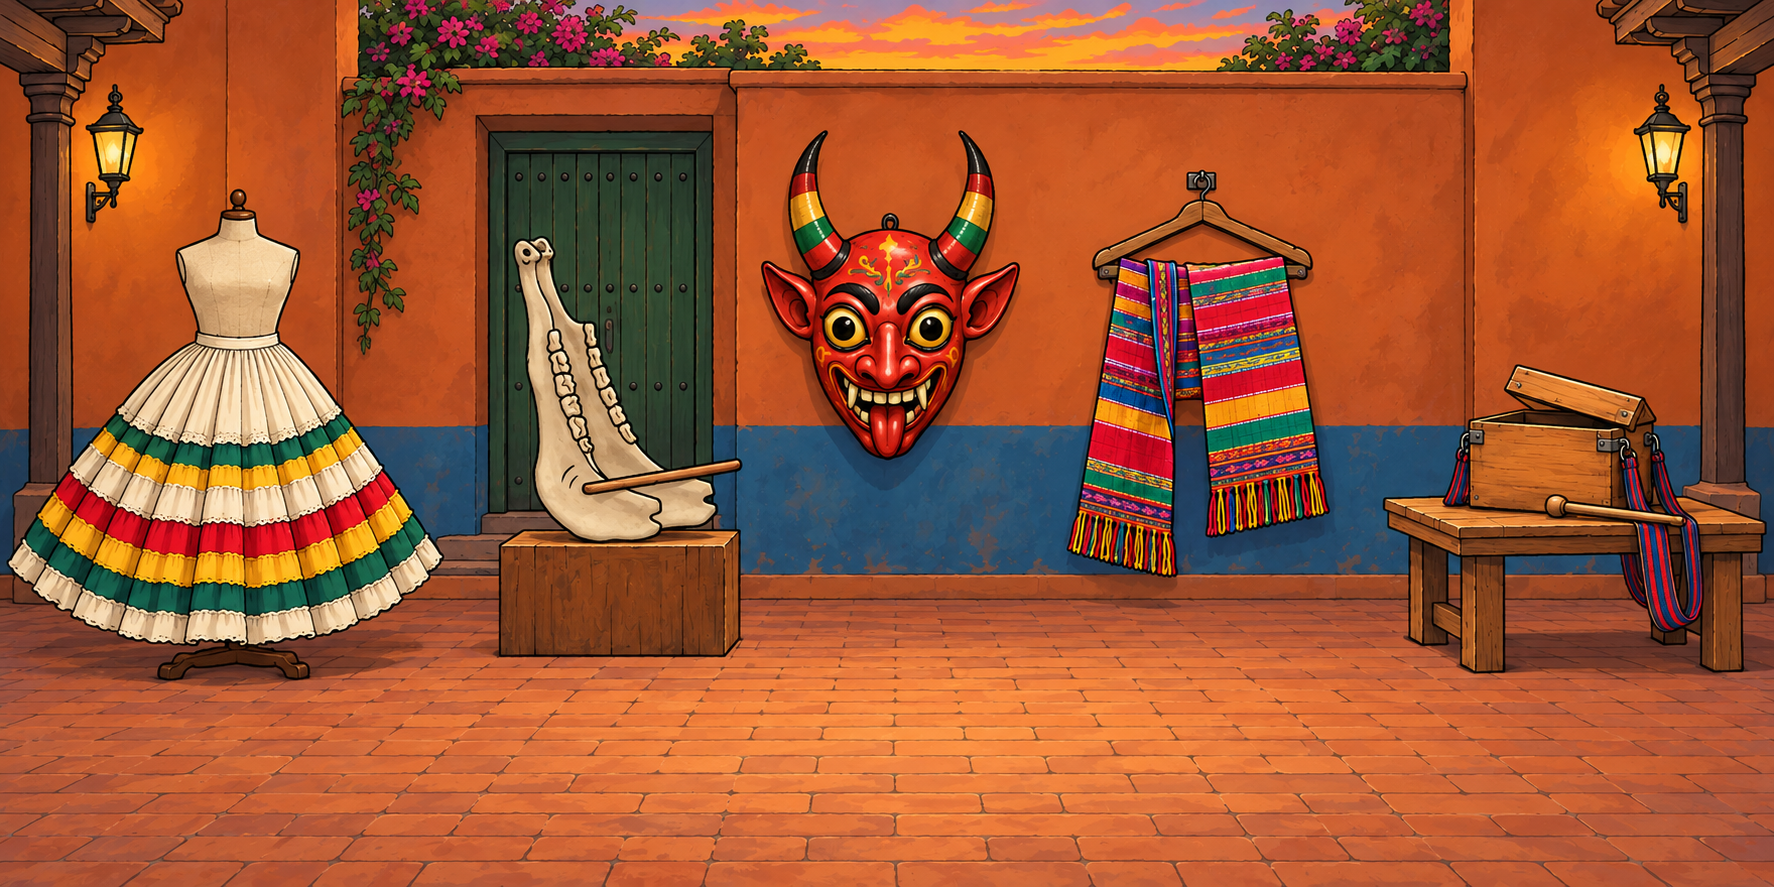
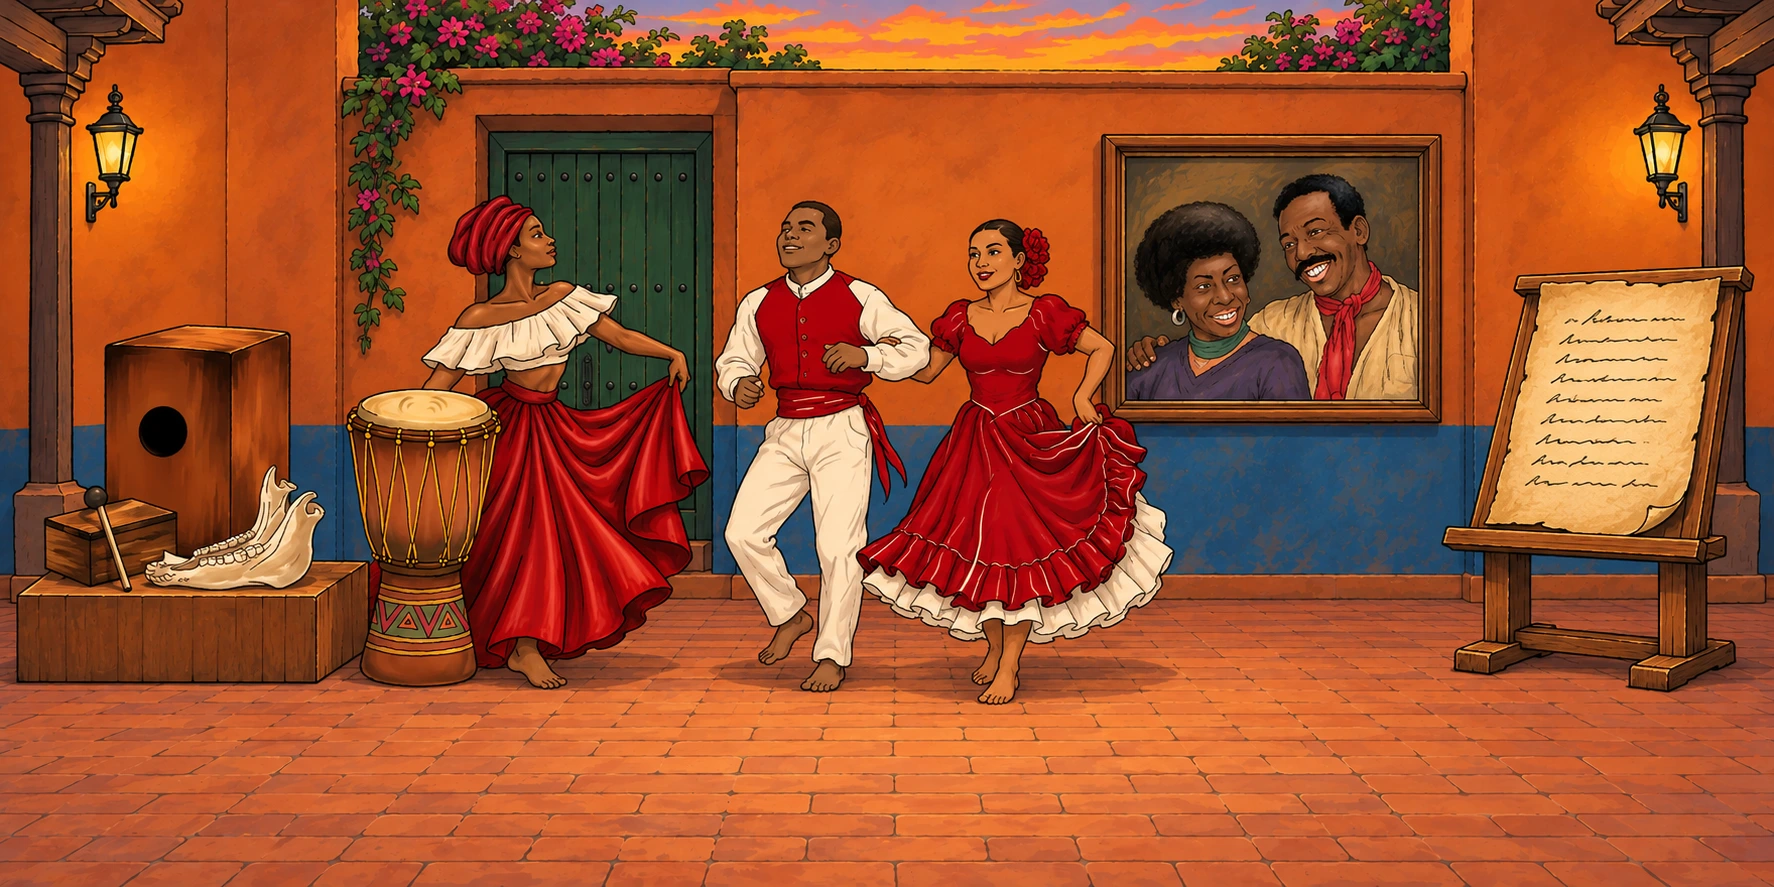
Museo: salas del tondero y el festejo con las piezas finales del equipo, pintadas por Codex
Las artes finales del Drive (31 de octubre) definen las cinco piezas de cada sala: checo, Plaza
de Morropón, pareja de tondero, sombrero-chicha-pañuelo y Teresa Olaya; cajón-cajita-quijada,
orígenes del festejo, pareja de festejo, Nicomedes y Victoria Santa Cruz y una décima manuscrita.
Codex repinta ambas salas completas en el estilo aprobado y las fichas se escriben nuevas
(textos por validar con el equipo).

diff --git a/src/data/museo.ts b/src/data/museo.ts
@@ -116,46 +116,47 @@ export const generos: Genero[] = [
       'Baile alegre del norte del Perú, sobre todo de Piura y Lambayeque. Recrea el cortejo de las aves: la pareja se busca, se esquiva y se enamora al ritmo de guitarras, cajón y checo.',
     interpretes: [],
     completa: true,
+    // Piezas pensadas con el equipo de diseño (Drive, SALA 5, 31 de octubre); la sala la pinta Codex
     objetos: [
-      {
-        id: 'sombrero',
-        categoria: 'Vestimenta',
-        nombre: 'Sombrero de paja',
-        texto:
-          'En Piura el sombrero de paja se teje a mano, con paciencia y paja muy fina. Protege del sol del norte y completa el traje del bailarín de tondero.',
-        dato: 'El tondero se baila en tres partes: la glosa, el dulce y la fuga.',
-      },
       {
         id: 'checo',
         categoria: 'Instrumento',
         nombre: 'Checo',
         texto:
-          'Es una calabaza seca y hueca, abierta por un lado, que se golpea con las manos. Su sonido grave y redondo marca el ritmo de la música norteña.',
-        dato: 'El checo nace del campo: se hace con un mate o calabaza, un fruto que se cultiva en la costa norte.',
+          'Es una calabaza grande, seca y hueca, abierta por un lado, que se golpea con las manos. Su sonido grave y redondo marca el ritmo del tondero y de la música de la costa norte.',
+        dato: 'El checo nace del campo: se hace con un mate o calabaza, un fruto que se cultiva en los valles de Piura y Lambayeque.',
       },
       {
-        id: 'panuelo-color',
-        categoria: 'Accesorio de baile',
-        nombre: 'Pañuelo de color',
-        texto:
-          'Como en la marinera, el pañuelo guía el cortejo. En el tondero suele ser de colores vivos y acompaña giros, persecuciones y coqueteos.',
-        dato: 'Muchos pasos del tondero imitan el vuelo y el cortejo de las aves.',
-      },
-      {
-        id: 'canasta',
-        categoria: 'Vida cotidiana',
-        nombre: 'Canasta de cosecha',
-        texto:
-          'La canasta recuerda la vida del campo piurano: la cosecha, los mercados y las fiestas del pueblo, donde el tondero no podía faltar.',
-        dato: 'El algarrobo, árbol del bosque seco, es un símbolo de Piura y de la costa norte.',
-      },
-      {
-        id: 'mapa',
+        id: 'morropon',
         categoria: 'Símbolo visual',
-        nombre: 'Mapa de Piura',
+        nombre: 'Plaza de Morropón',
         texto:
-          'Piura es la cuna del tondero. Desde sus valles y pueblos, el baile se extendió por toda la costa norte del Perú.',
-        dato: 'El tondero es fruto de la mezcla de herencias españolas, africanas e indígenas en la costa norte.',
+          'Morropón, en Piura, es considerado la cuna del tondero. En su plaza, con su pileta y su iglesia, se celebran las fiestas donde el baile se vive de verdad: entre chicha, guitarras y cajón.',
+        dato: 'Morropón se llama a sí mismo "capital del tondero" y cada año celebra un festival dedicado a este baile.',
+      },
+      {
+        id: 'pareja-tondero',
+        categoria: 'Accesorio de baile',
+        nombre: 'Pareja de tondero',
+        texto:
+          'Se baila descalzo, con pañuelo en alto y sombrero de paja en la mano. Ella luce vestido de volantes y flor en el cabello; él, camisa blanca y faja. La pareja se busca, se esquiva y se enamora, como las aves en el cortejo.',
+        dato: 'El tondero se baila en tres partes: la glosa, el dulce y la fuga.',
+      },
+      {
+        id: 'simbolos-tondero',
+        categoria: 'Vida cotidiana',
+        nombre: 'Sombrero, chicha y pañuelo',
+        texto:
+          'Sombrero de paja de ala ancha, chicha de jora en cántaros de barro y pañuelo bordado: así se arma una fiesta norteña. La chicha, bebida de maíz fermentado, acompaña al tondero desde siempre.',
+        dato: 'En Piura los sombreros de paja se tejen a mano, con fibra muy fina, y protegen del sol fuerte del norte.',
+      },
+      {
+        id: 'teresa-olaya',
+        categoria: 'Personaje',
+        nombre: 'Teresa Olaya',
+        texto:
+          'Teresa Isabel Olaya Díaz es una de las cultoras del tondero de Morropón: bailarina y maestra que ha enseñado a varias generaciones a bailarlo como se baila en su tierra, con pañuelo, vestido de volantes y los pies descalzos.',
+        dato: 'Los cultores y cultoras son quienes guardan y enseñan un baile tradicional en su propio pueblo; de ellos aprenden las nuevas generaciones.',
       },
     ],
   },
@@ -277,46 +278,47 @@ export const generos: Genero[] = [
       'Ritmo afroperuano lleno de energía, con cajón, quijada y palmas. Es celebración, memoria y resistencia, y se baila con alegría y movimiento de cadera.',
     interpretes: ['Nicomedes Santa Cruz', 'Victoria Santa Cruz', 'Porfirio Vásquez', 'Perú Negro', 'Eva Ayllón', 'Susana Baca'],
     completa: true,
+    // Piezas pensadas con el equipo de diseño (Drive, SALA 4, 31 de octubre); la sala la pinta Codex
     objetos: [
       {
-        id: 'falda',
-        categoria: 'Vestimenta',
-        nombre: 'Falda amplia',
-        texto:
-          'Las bailarinas de festejo usan faldas amplias y coloridas que giran y se levantan con cada movimiento de cadera.',
-        dato: 'Cada 4 de junio se celebra el Día de la Cultura Afroperuana, en homenaje al nacimiento de Nicomedes Santa Cruz.',
-      },
-      {
-        id: 'quijada',
+        id: 'cajon-cajita-quijada',
         categoria: 'Instrumento',
-        nombre: 'Quijada de burro',
+        nombre: 'Cajón, cajita y quijada',
         texto:
-          'Es la mandíbula seca de un burro, mula o caballo. Al golpearla con la palma, los dientes sueltos vibran como un cascabel; también se raspa con un palillo.',
-        dato: 'La quijada nació de hacer música con lo que se tenía a mano, y hoy es un símbolo de la percusión afroperuana.',
-      },
-      {
-        id: 'cinta',
-        categoria: 'Accesorio de baile',
-        nombre: 'Cinta de cintura',
-        texto:
-          'Cintas y fajas de colores marcan la cintura y resaltan el movimiento de cadera, protagonista del festejo.',
+          'Los tres instrumentos de la percusión afroperuana. El cajón es una caja de madera que se toca sentado encima; la cajita, una cajita con tapa que se abre y cierra al ritmo; la quijada, la mandíbula seca de un burro cuyos dientes vibran al golpearla.',
         dato: 'En 2001 el cajón peruano fue declarado Patrimonio Cultural de la Nación.',
       },
       {
-        id: 'mascara',
-        categoria: 'Vida cotidiana',
-        nombre: 'Máscara festiva decorativa',
+        id: 'origenes-festejo',
+        categoria: 'Historia',
+        nombre: 'Los orígenes del festejo',
         texto:
-          'Las máscaras recuerdan las comparsas populares, como el son de los diablos, que recorría las calles de Lima en carnavales y fiestas.',
-        dato: 'Esta máscara es un recurso de ambientación: evoca lo festivo, pero no es un elemento obligatorio del festejo.',
+          'El festejo nació en la costa peruana entre los africanos esclavizados y sus descendientes, en los siglos XVII y XVIII. Con tambores, palmas y canto, fue celebración y también resistencia: una manera de mantener viva la memoria de África.',
+        dato: 'Cada 4 de junio se celebra el Día de la Cultura Afroperuana, en homenaje al nacimiento de Nicomedes Santa Cruz.',
       },
       {
-        id: 'cajita',
-        categoria: 'Símbolo visual',
-        nombre: 'Cajita afroperuana',
+        id: 'pareja-festejo',
+        categoria: 'Vestimenta',
+        nombre: 'Pareja de festejo',
         texto:
-          'Pequeña caja de madera con tapa, que se cuelga del cuello o la cintura. Se toca abriendo y cerrando la tapa y golpeando un costado con un palillo.',
-        dato: 'La cajita acompaña danzas como el son de los diablos y es uno de los sonidos más reconocibles de la música afroperuana.',
+          'Se baila descalzo, con alegría y mucho movimiento de cadera. Ella lleva vestido rojo de vuelos con enagua blanca y flor en el pelo; él, camisa blanca, chaleco rojo y pantalón blanco. Los colores vivos son parte de la fiesta.',
+        dato: 'El festejo se baila en pareja suelta: los bailarines no se toman, se provocan y se responden con el cuerpo.',
+      },
+      {
+        id: 'santa-cruz',
+        categoria: 'Personaje',
+        nombre: 'Nicomedes y Victoria Santa Cruz',
+        texto:
+          'Hermanos limeños que rescataron la cultura afroperuana en el siglo XX. Nicomedes (1925-1992), decimista y poeta, llevó la décima y el festejo a la radio y los discos; Victoria (1922-2014), coreógrafa y compositora, recreó danzas y fundó conjuntos que recorrieron el mundo.',
+        dato: 'Victoria Santa Cruz es autora del poema "Me gritaron negra", un himno del orgullo afroperuano.',
+      },
+      {
+        id: 'decima',
+        categoria: 'Vida cotidiana',
+        nombre: 'Una décima manuscrita',
+        texto:
+          'La décima es un poema de diez versos que los decimistas afroperuanos componen y recitan, muchas veces de memoria o improvisando. Habla de la vida diaria, de amores, de injusticias y de humor, y suele acompañarse de guitarra y cajón.',
+        dato: 'Nicomedes Santa Cruz escribió cientos de décimas; con ellas contó la historia del Perú negro.',
       },
     ],
   },

diff --git a/herramientas/fija-ilustrada/pedidos/festejo-final.md b/herramientas/fija-ilustrada/pedidos/festejo-final.md
@@ -1,0 +1,16 @@
+Hola Codex, soy Claude. Seguimos con el museo virtual de Entre Jaranas (música criolla peruana). Esta es la SALA DEL FESTEJO, versión final (reemplaza a `estilo-festejo.png`, que es la versión anterior de esta misma sala: conserva su ambiente, pero con las piezas nuevas).
+Ambiente: patio o callejón afroperuano de la costa, de colores cálidos: paredes de adobe pintadas de ocre y rojo, zócalo azul, una puerta verde de madera, buganvilias arriba, piso de ladrillo, cielo de atardecer. Luz cálida.
+Las cinco piezas, de izquierda a derecha, con sus centros más o menos en el 12%, 31%, 50%, 69% y 88% del ancho:
+1. CAJÓN PERUANO de madera con una CAJITA afroperuana (cajita de madera con tapa y palillo) y una QUIJADA DE BURRO apoyadas delante, sobre una tarima baja, ver `pieza-cajon-cajita-quijada.png`.
+2. BAILARINA AFROPERUANA DE LOS ORÍGENES DEL FESTEJO, de pie, con turbante rojo, blusa blanca de hombros descubiertos y falda roja amplia, junto a un tambor alto de madera con cuero y cuerdas, ver `pieza-origenes.png`.
+3. PAREJA BAILANDO FESTEJO de pie en el centro, de cuerpo entero y descalzos: él con camisa blanca, chaleco rojo y pantalón blanco; ella con vestido rojo de vuelos con enagua blanca y flor en el pelo, ver `pieza-pareja.png`.
+4. RETRATO DE NICOMEDES Y VICTORIA SANTA CRUZ, enmarcado en la pared: hermano y hermana afroperuanos sonriendo, ella con cabello afro y collar, él con bigote, pañuelo rojo al cuello y camisa clara, ver `pieza-santa-cruz.png`.
+5. UNA DÉCIMA MANUSCRITA: hoja de papel antiguo envejecido con escritura a mano sugerida con líneas (sin texto legible), enmarcada o sobre un atril de madera, ver `pieza-decima.png`.
+REGLAS COMUNES (la imagen es el fondo interactivo de una sala del museo; encima van botones sobre cada pieza):
+- Estilo IDÉNTICO al de `estilo-tondero.png`, `estilo-festejo.png` y `estilo-vals.png`, que son salas ya aprobadas por el cliente: línea de tinta negra fina y segura, color pintado tipo gouache digital, textura suave, luz cálida, sensación de profundidad. Nada de 3D, plástico ni fotorrealismo. Las piezas van PINTADAS dentro de la escena, con la misma luz y el mismo trazo que el resto (no pegadas ni recortadas).
+- Vista FRONTAL de la sala (perspectiva de un punto, cámara centrada a la altura de los ojos), formato horizontal 2:1.
+- Cada pieza en su propio lugar, SIN taparse entre sí y separadas por espacio libre, completas dentro del cuadro y bien iluminadas (como en una exhibición). Que cada pieza ocupe un buen tamaño (que se reconozca de lejos).
+- Los archivos `pieza-*.png` son referencias de QUÉ es cada pieza (dibujos del equipo de diseño): toma de ellos el objeto, la ropa, las poses y los colores, pero píntalos de nuevo en el estilo de la sala.
+- SIN letras, números ni texto legible en ninguna parte (ni en cuadros, papeles o carteles): lo escrito se sugiere con líneas.
+SALIDA: la mayor resolución que puedas en 2:1. Guarda el resultado con el nombre indicado en este directorio y responde en una línea la ruta y la resolución.
+Nombre del archivo: `festejo.png`.

diff --git a/herramientas/fija-ilustrada/pedidos/tondero-final.md b/herramientas/fija-ilustrada/pedidos/tondero-final.md
@@ -1,0 +1,16 @@
+Hola Codex, soy Claude. Seguimos con el museo virtual de Entre Jaranas (música criolla peruana). Esta es la SALA DEL TONDERO, versión final (reemplaza a `estilo-tondero.png`, que es la versión anterior de esta misma sala: conserva su ambiente, pero con las piezas nuevas).
+Ambiente: casa norteña de Piura, de luz clara: paredes blancas encaladas con zócalo verde, techo de vigas de algarrobo, piso de ladrillo, una ventana con postigos verdes abierta al bosque seco con algarrobos y cerros. Luz de sol de media tarde.
+Las cinco piezas, de izquierda a derecha, con sus centros más o menos en el 12%, 31%, 50%, 69% y 88% del ancho:
+1. CHECO: calabaza grande seca y hueca, de color ocre, con una abertura cuadrada en un lado, sobre un pedestal de madera, ver `pieza-checo.png`.
+2. CUADRO DE LA PLAZA DE MORROPÓN enmarcado en la pared: plaza con pileta al centro, un algarrobo frondoso y una iglesia blanca de dos torres al fondo, SIN letras, ver `pieza-morropon.png`.
+3. PAREJA BAILANDO TONDERO de pie en el centro, de cuerpo entero y descalzos, con pañuelos blancos en alto: ella con vestido turquesa de volantes y enagua blanca, flor en el cabello; él con camisa blanca, pantalón oscuro, faja y sombrero de paja en la mano, ver `pieza-pareja.png`.
+4. BODEGÓN NORTEÑO sobre una mesa o banca de madera: un sombrero de paja de ala ancha con cinta morada, una botella de chicha de jora, dos cántaros de barro y un pañuelo bordado, ver `pieza-simbolos.png`.
+5. TERESA OLAYA, bailarina de tondero de pie, mujer madura con vestido blanco largo de volantes que sostiene abierto con las manos, flor en el cabello, ver `pieza-teresa-olaya.png`.
+REGLAS COMUNES (la imagen es el fondo interactivo de una sala del museo; encima van botones sobre cada pieza):
+- Estilo IDÉNTICO al de `estilo-tondero.png`, `estilo-festejo.png` y `estilo-vals.png`, que son salas ya aprobadas por el cliente: línea de tinta negra fina y segura, color pintado tipo gouache digital, textura suave, luz cálida, sensación de profundidad. Nada de 3D, plástico ni fotorrealismo. Las piezas van PINTADAS dentro de la escena, con la misma luz y el mismo trazo que el resto (no pegadas ni recortadas).
+- Vista FRONTAL de la sala (perspectiva de un punto, cámara centrada a la altura de los ojos), formato horizontal 2:1.
+- Cada pieza en su propio lugar, SIN taparse entre sí y separadas por espacio libre, completas dentro del cuadro y bien iluminadas (como en una exhibición). Que cada pieza ocupe un buen tamaño (que se reconozca de lejos).
+- Los archivos `pieza-*.png` son referencias de QUÉ es cada pieza (dibujos del equipo de diseño): toma de ellos el objeto, la ropa, las poses y los colores, pero píntalos de nuevo en el estilo de la sala.
+- SIN letras, números ni texto legible en ninguna parte (ni en cuadros, papeles o carteles): lo escrito se sugiere con líneas.
+SALIDA: la mayor resolución que puedas en 2:1. Guarda el resultado con el nombre indicado en este directorio y responde en una línea la ruta y la resolución.
+Nombre del archivo: `tondero.png`.
